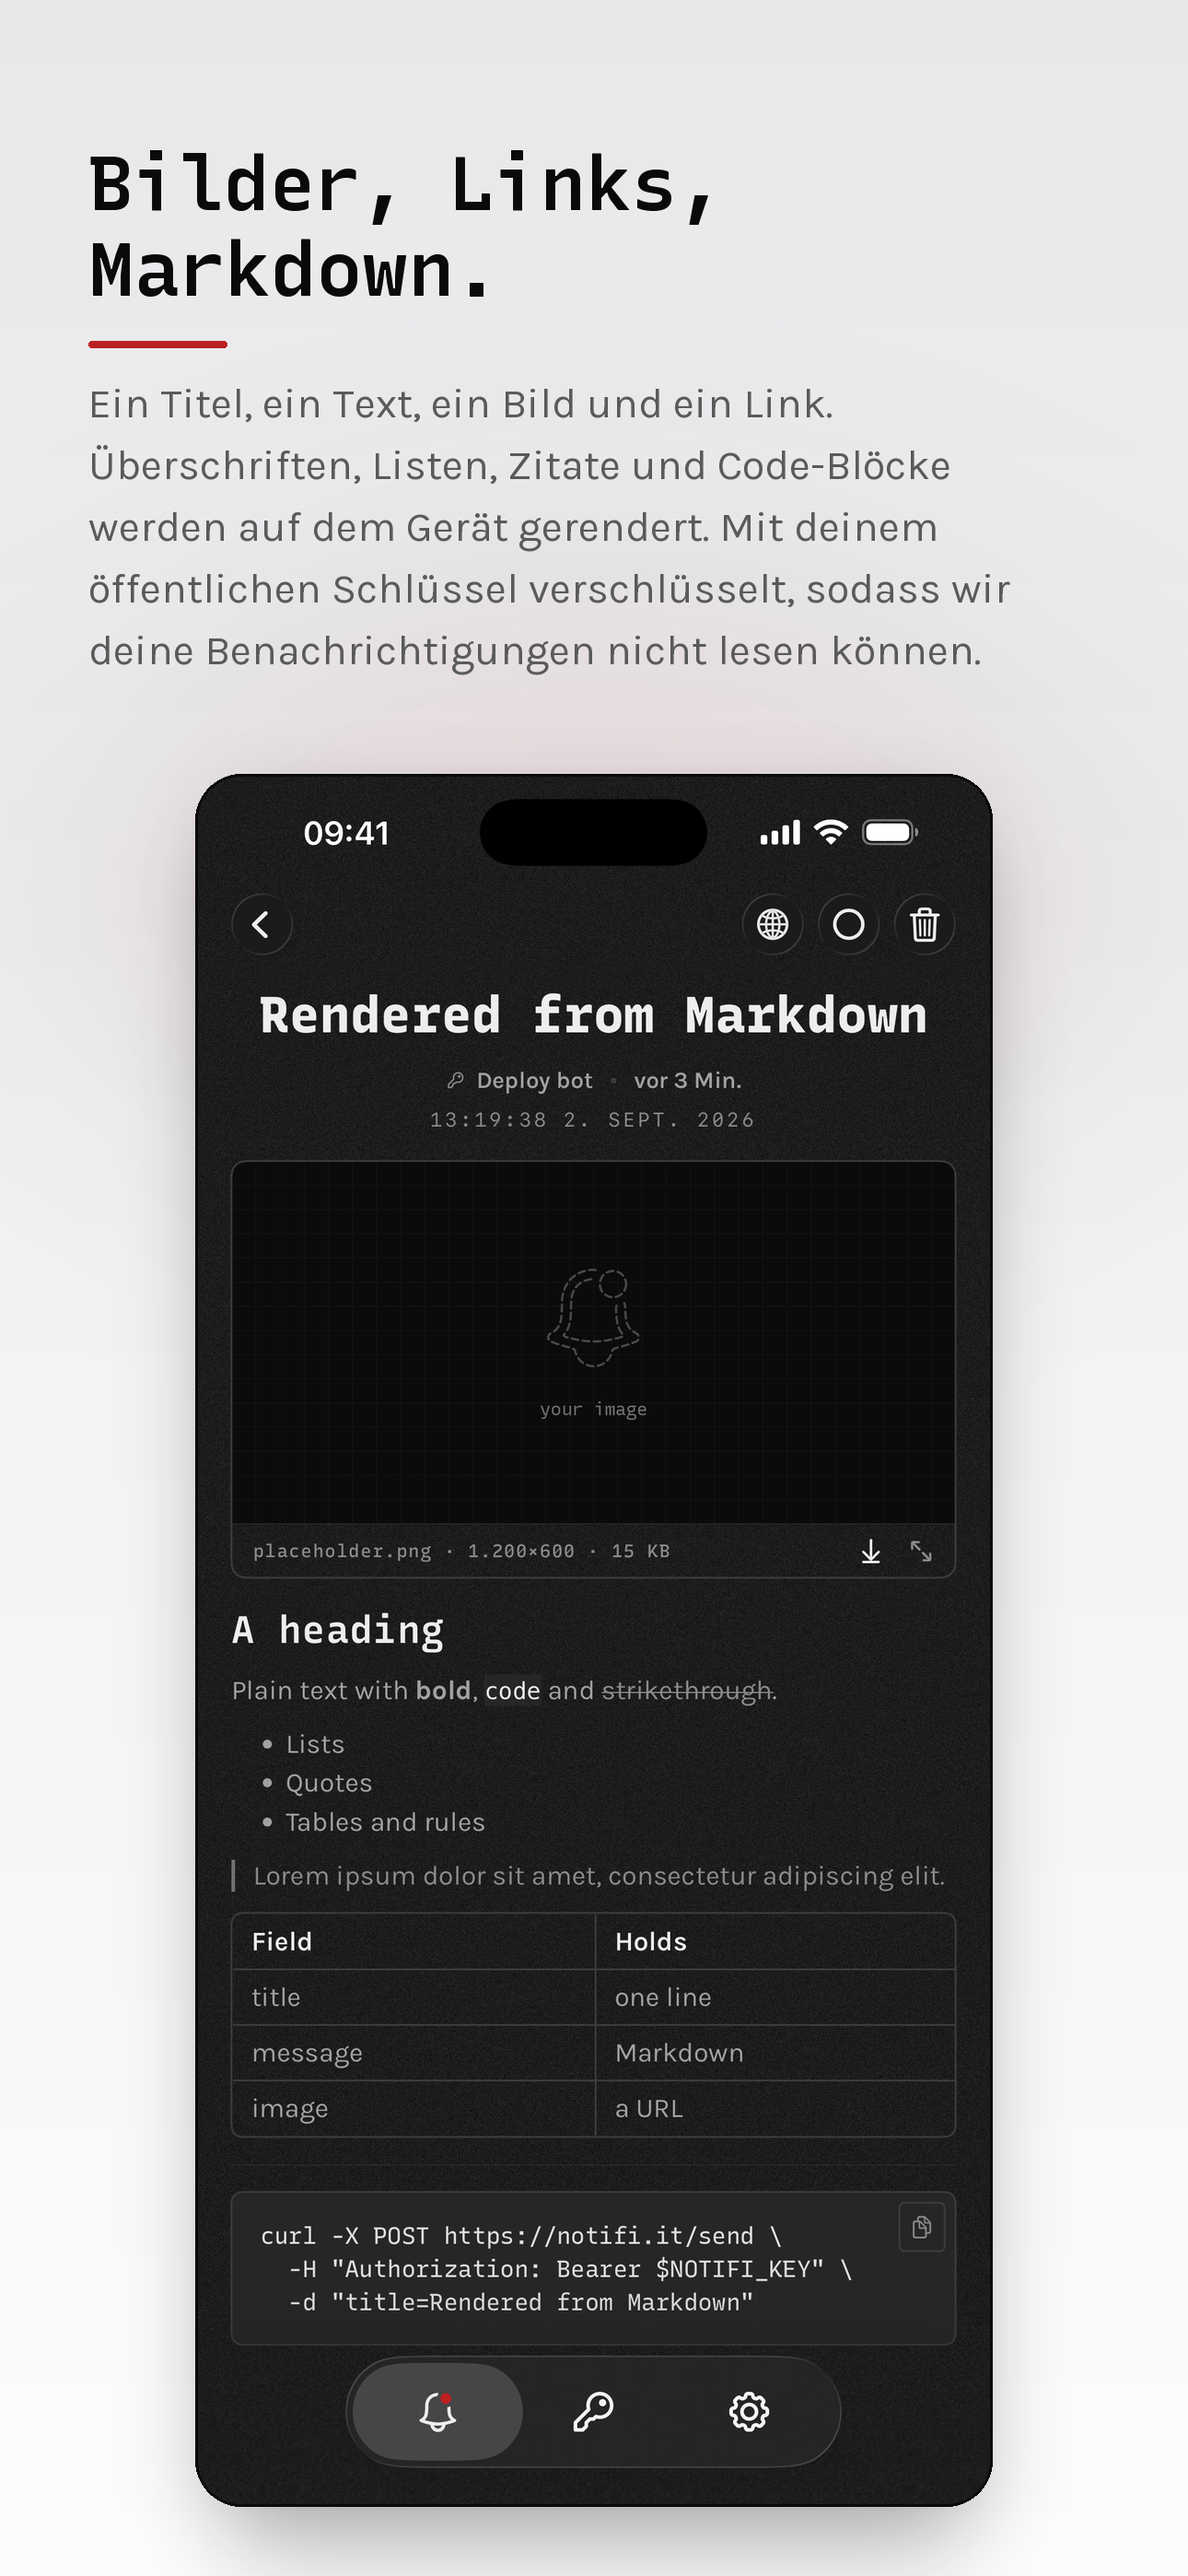
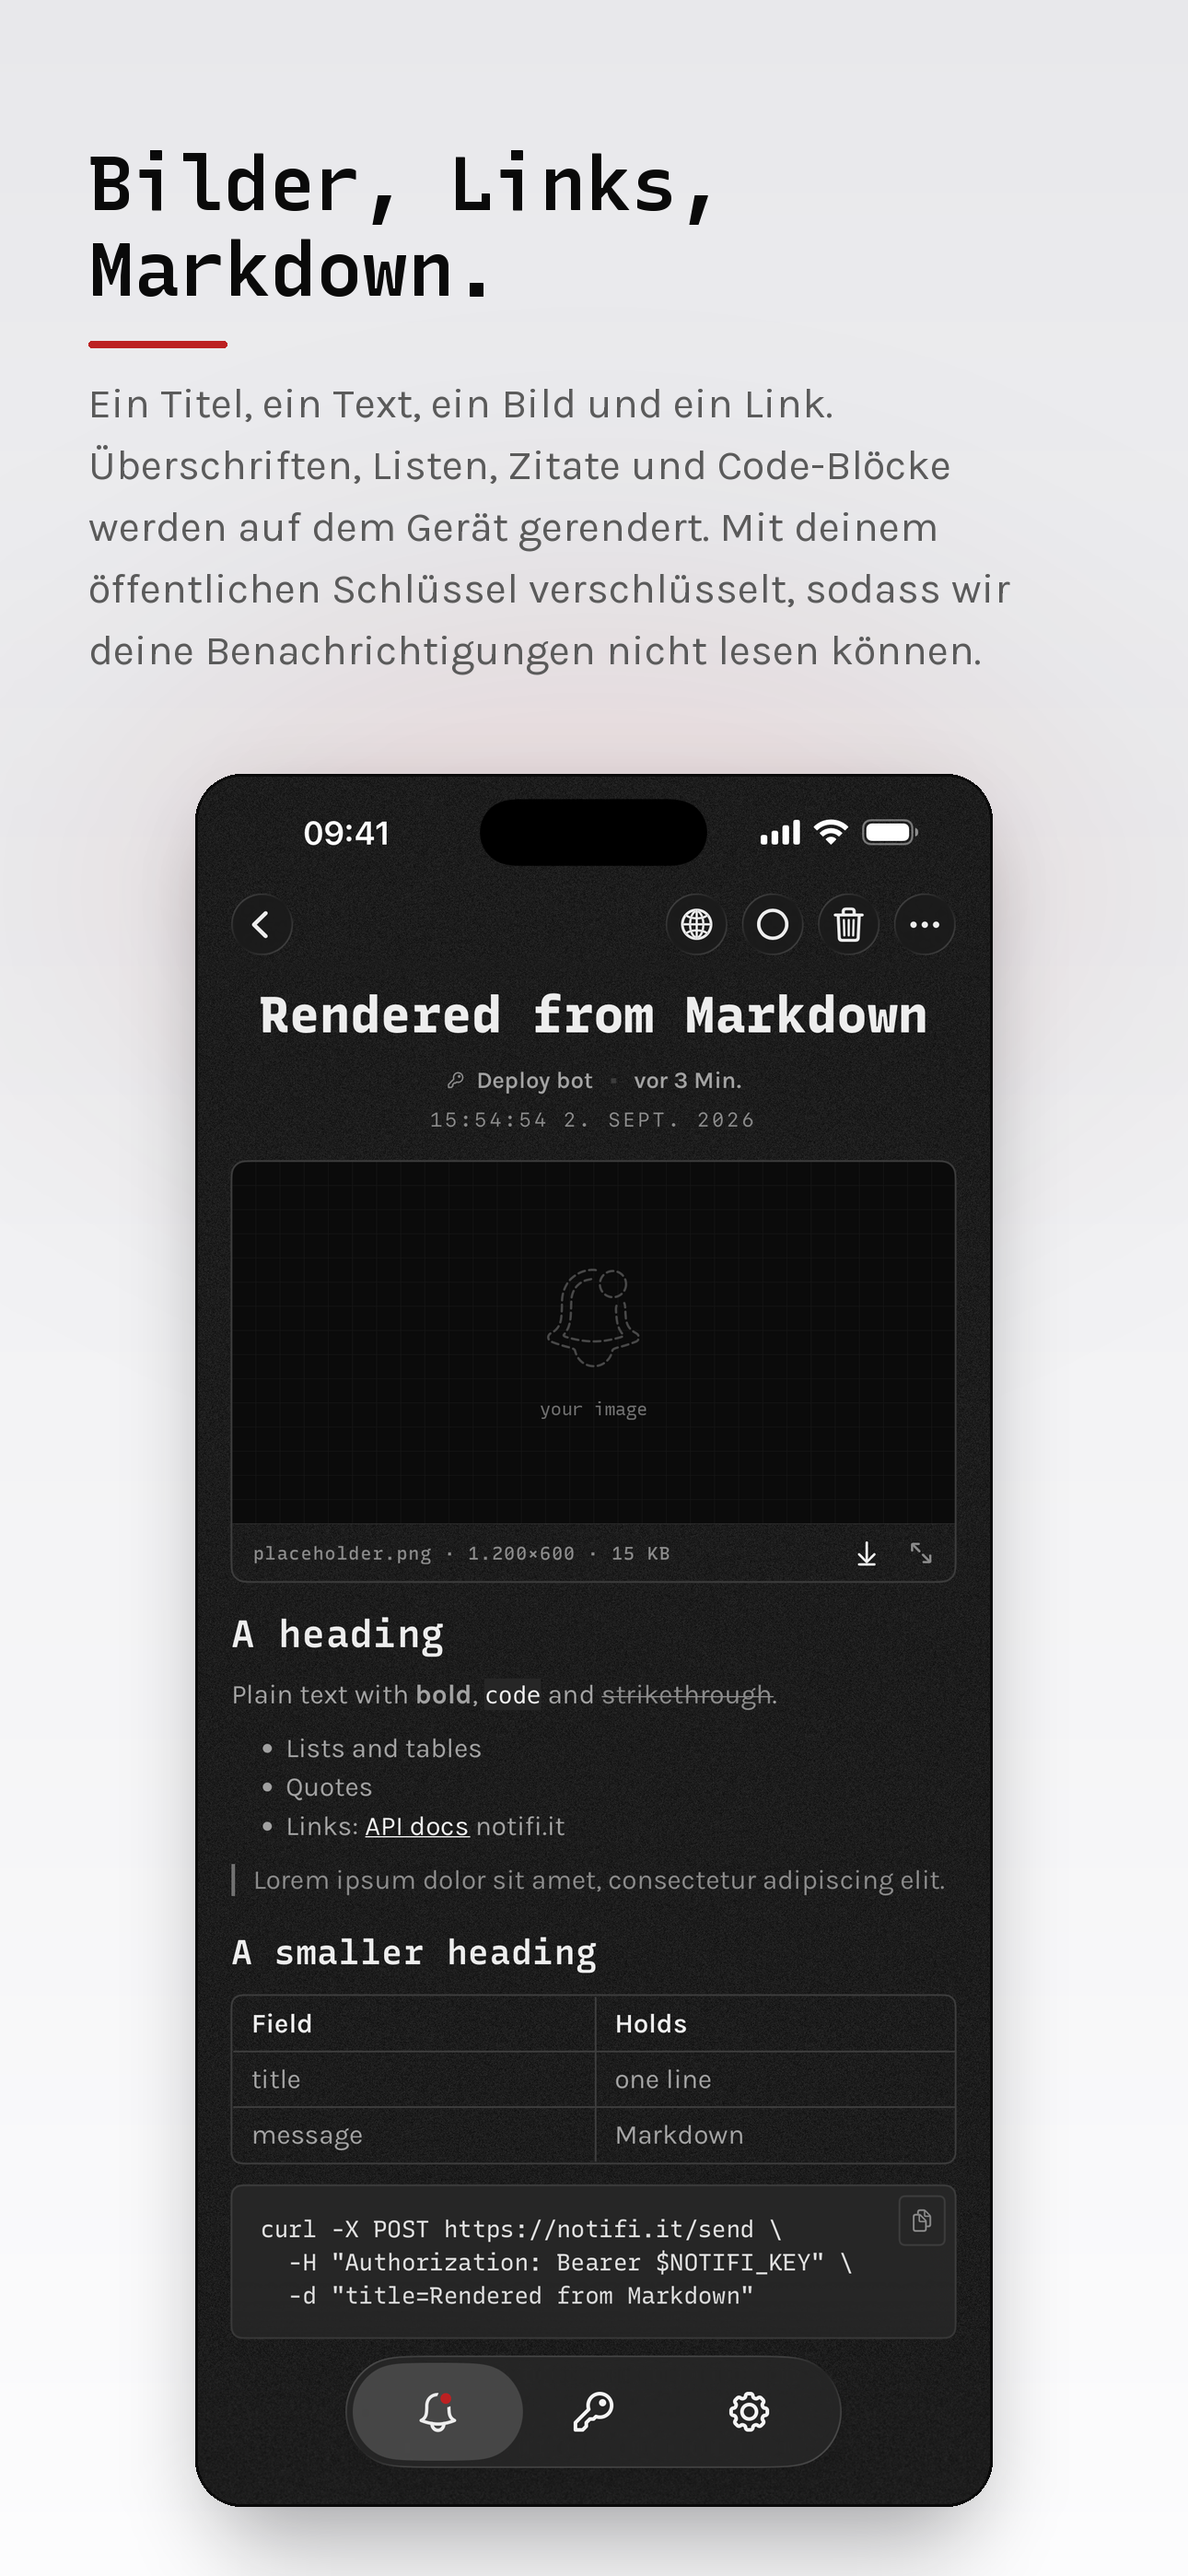
Showcase body: drop the rule, recapture with the download viewer
The merged detail header is a row taller with its actions menu, which pushed
the code block under the tab bar on the phone frame; the horizontal rule was
invisible on the dark ground, so it goes and the list item stops naming it.
The message frames are recaptured with the viewer changes in.

diff --git a/apps/app/Shared/Support/SampleData.swift b/apps/app/Shared/Support/SampleData.swift
@@ -72,7 +72,7 @@ enum SampleData {
 
     Plain text with **bold**, `code` and ~~strikethrough~~.
 
-    - Lists, tables and rules
+    - Lists and tables
     - Quotes
     - Links: [API docs](https://notifi.it/docs)
 
@@ -84,8 +84,6 @@ enum SampleData {
     | --- | --- |
     | title | one line |
     | message | Markdown |
-
-    ---
 
     ```
     curl -X POST https://notifi.it/send \\
